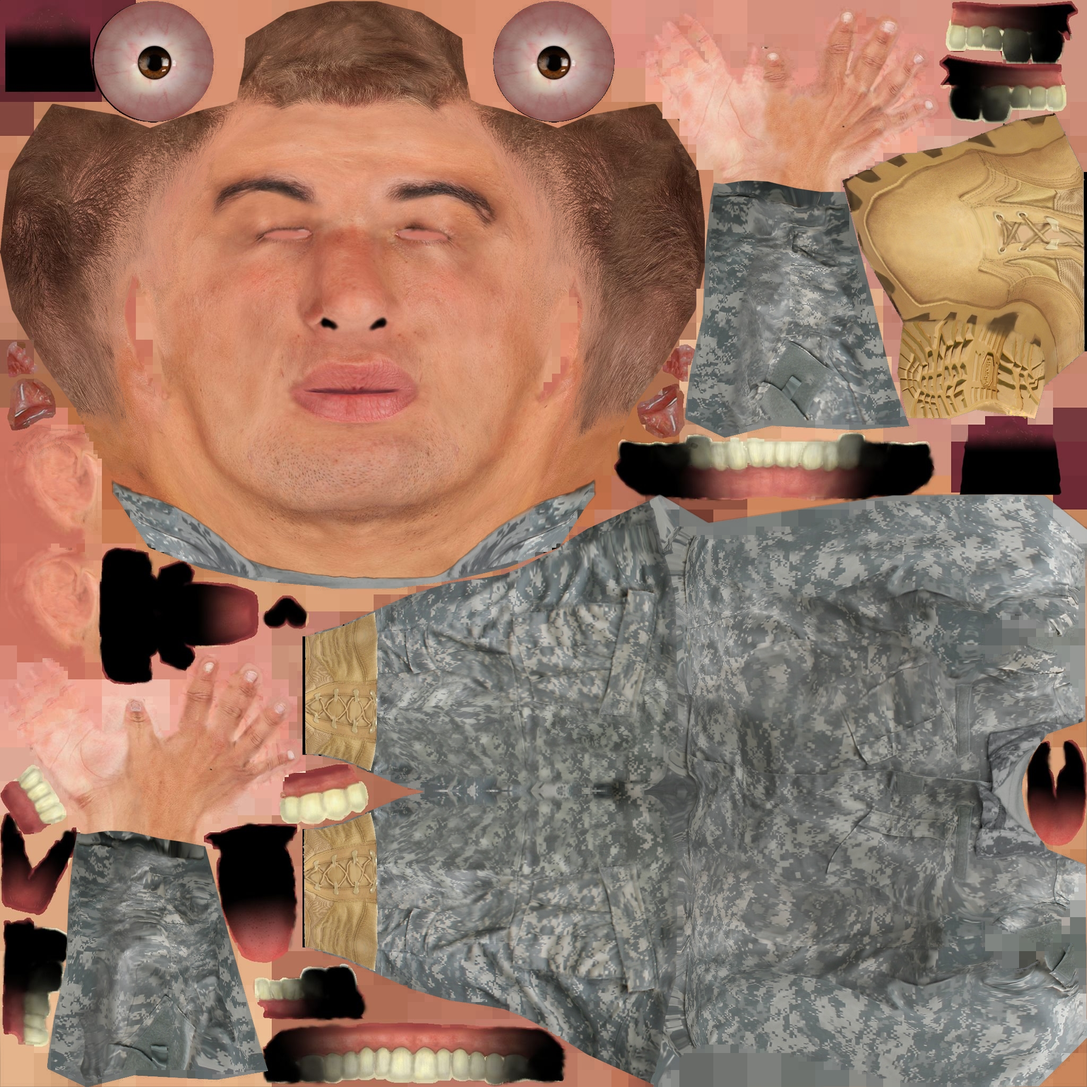
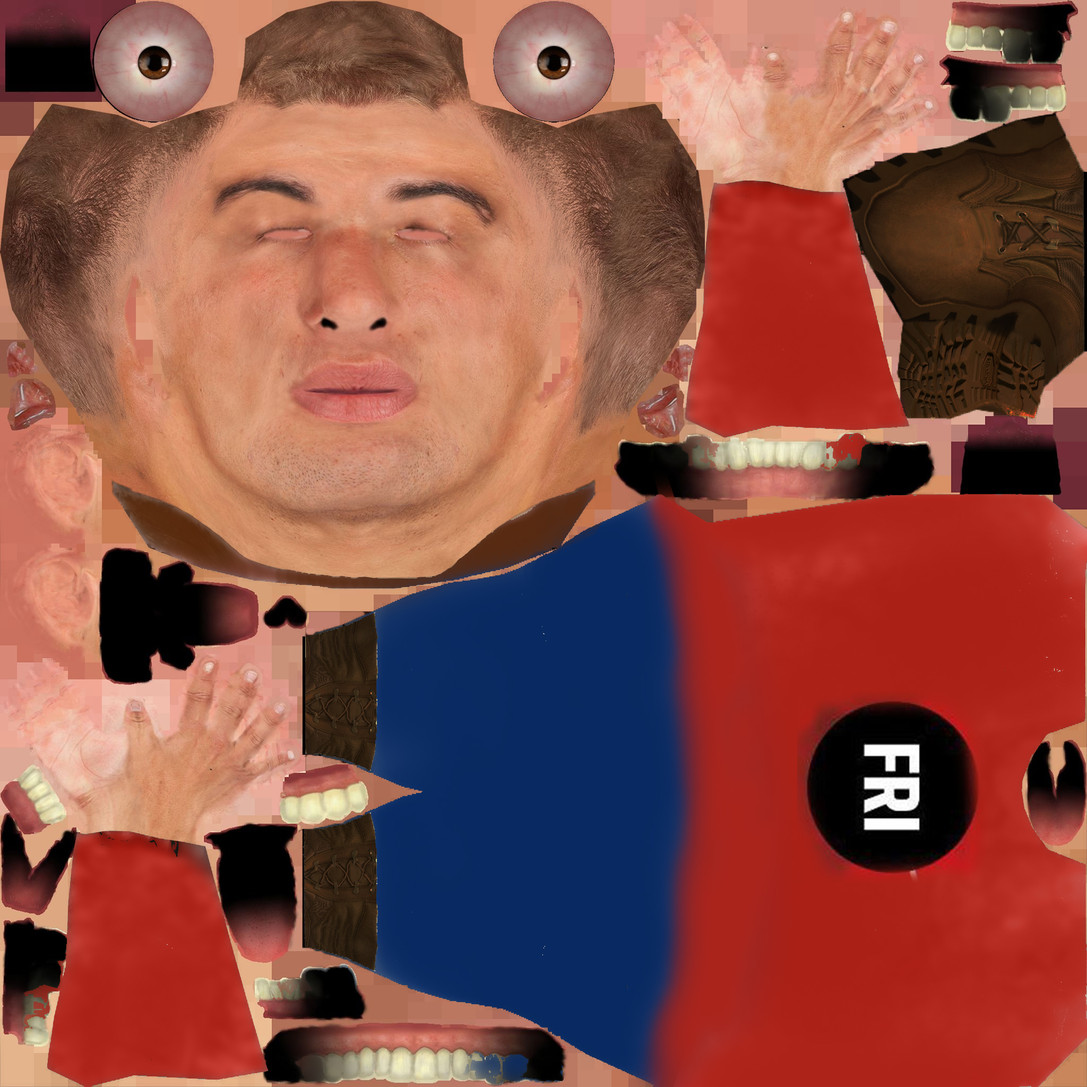
fric, klopce

diff --git a/scripts/world_map.js b/scripts/world_map.js
@@ -1,159 +1,159 @@
 var map = [// 1  2  3  4  5  6  7  8  9
-          [1, 1, 1, 1, 1, 1, 1, 1, 1, 1, 1, 1, 1, 1, 8, 8, 8, 8, 8, 8, 8, 1, 1, 1, 1, 1, 1, 1, 1, 1, 1, 1, 1, 1, 1, 1,], // 0
-          [1, 0, 0, 0, 0, 0, 0, 0, 0, 0, 0, 1, 0, 0, 0, 0, 0, 0, 0, 0, 0, 0, 0, 1, 0, 0, 0, 0, 0, 0, 0, 0, 0, 0, 0, 1,], // 1
-          [7, 0, 0, 0, 0, 0, 0, 0, 0, 0, 0, 1, 0, 0, 0, 0, 0, 0, 0, 0, 0, 0, 0, 1, 0, 0, 0, 0, 0, 0, 0, 0, 0, 0, 0, 7,], // 2
-          [7, 0, 0, 0, 0, 0, 0, 0, 0, 0, 0, 1, 0, 0, 0, 0, 0, 0, 0, 0, 0, 0, 0, 1, 0, 0, 0, 0, 0, 0, 0, 0, 0, 0, 0, 7,], // 3
-          [7, 0, 0, 0, 0, 0, 0, 0, 0, 0, 0, 1, 0, 0, 0, 0, 0, 0, 0, 0, 0, 0, 0, 1, 0, 0, 0, 0, 0, 0, 0, 0, 0, 0, 0, 7,], // 4
-          [7, 0, 0, 0, 0, 0, 0, 0, 0, 0, 0, 1, 0, 0, 0, 0, 0, 0, 0, 0, 0, 0, 0, 1, 0, 0, 0, 0, 0, 0, 0, 0, 0, 0, 0, 7,], // 5
-          [7, 0, 0, 0, 0, 0, 0, 0, 0, 0, 0, 1, 0, 0, 0, 0, 0, 0, 0, 0, 0, 0, 0, 1, 0, 0, 0, 0, 0, 0, 0, 0, 0, 0, 0, 7,], // 6
-          [7, 0, 0, 0, 0, 0, 0, 0, 0, 0, 0, 1, 0, 0, 0, 0, 0, 0, 0, 0, 0, 0, 0, 1, 0, 0, 0, 0, 0, 0, 0, 0, 0, 0, 0, 7,], // 3
-          [7, 0, 0, 0, 0, 0, 0, 0, 0, 0, 0, 5, 0, 0, 0, 0, 0, 0, 0, 0, 0, 0, 0, 5, 0, 0, 0, 0, 0, 0, 0, 0, 0, 0, 0, 7,], // 4
-          [7, 0, 0, 0, 0, 0, 0, 0, 0, 0, 0, 5, 0, 0, 0, 0, 0, 0, 0, 0, 0, 0, 0, 5, 0, 0, 0, 0, 0, 0, 0, 0, 0, 0, 0, 7,], // 5
-          [7, 0, 0, 0, 0, 0, 0, 0, 0, 0, 0, 1, 0, 0, 0, 0, 0, 0, 0, 0, 0, 0, 0, 1, 0, 0, 0, 0, 0, 0, 0, 0, 0, 0, 0, 7,], // 6
-          [7, 0, 0, 0, 0, 0, 0, 0, 0, 0, 0, 1, 0, 0, 0, 0, 0, 0, 0, 0, 0, 0, 0, 1, 0, 0, 0, 0, 0, 0, 0, 0, 0, 0, 0, 7,], // 7
-          [1, 0, 0, 0, 0, 0, 0, 0, 0, 0, 0, 1, 0, 0, 0, 0, 0, 0, 0, 0, 0, 0, 0, 1, 0, 0, 0, 0, 0, 0, 0, 0, 0, 0, 0, 1,], // 8
-          [1, 1, 1, 1, 1, 1, 1, 1, 1, 1, 1, 1, 0, 0, 0, 0, 0, 0, 0, 0, 0, 0, 0, 1, 1, 1, 1, 1, 1, 1, 1, 1, 1, 1, 1, 1,], // 9
-          [1, 0, 0, 0, 0, 0, 0, 0, 0, 0, 1, 0, 0, 0, 0, 0, 0, 0, 0, 0, 0, 0, 0, 1, 0, 0, 0, 0, 0, 0, 0, 0, 0, 0, 0, 1,], // 1
-          [7, 0, 0, 0, 0, 0, 0, 0, 0, 0, 1, 0, 0, 0, 0, 0, 0, 0, 0, 0, 0, 0, 0, 1, 0, 0, 0, 0, 0, 0, 0, 0, 0, 0, 0, 7,], // 2
-          [7, 0, 0, 0, 0, 0, 0, 0, 0, 0, 1, 0, 0, 0, 0, 0, 0, 0, 0, 0, 0, 0, 0, 1, 0, 0, 0, 0, 0, 0, 0, 0, 0, 0, 0, 7,], // 3
-          [7, 0, 0, 0, 0, 0, 0, 0, 0, 0, 1, 0, 0, 0, 0, 0, 0, 0, 0, 0, 0, 0, 0, 1, 0, 0, 0, 0, 0, 0, 0, 0, 0, 0, 0, 7,], // 4
-          [7, 0, 0, 0, 0, 0, 0, 0, 0, 0, 1, 0, 0, 0, 0, 0, 0, 0, 0, 0, 0, 0, 0, 1, 0, 0, 0, 0, 0, 0, 0, 0, 0, 0, 0, 7,], // 5
-          [7, 0, 0, 0, 0, 0, 0, 0, 0, 0, 1, 0, 0, 0, 0, 0, 0, 0, 0, 0, 0, 0, 0, 1, 0, 0, 0, 0, 0, 0, 0, 0, 0, 0, 0, 7,], // 6
-          [7, 0, 0, 0, 0, 0, 0, 0, 0, 0, 1, 0, 0, 0, 0, 0, 0, 0, 0, 0, 0, 0, 0, 1, 0, 0, 0, 0, 0, 0, 0, 0, 0, 0, 0, 7,], // 3
-          [7, 0, 0, 0, 0, 0, 0, 0, 0, 0, 5, 0, 0, 0, 0, 0, 0, 0, 0, 0, 0, 0, 0, 5, 0, 0, 0, 0, 0, 0, 0, 0, 0, 0, 0, 7,], // 4
-          [7, 0, 0, 0, 0, 0, 0, 0, 0, 0, 5, 0, 0, 0, 0, 0, 0, 0, 0, 0, 0, 0, 0, 5, 0, 0, 0, 0, 0, 0, 0, 0, 0, 0, 0, 7,], // 5
-          [7, 0, 0, 0, 0, 0, 0, 0, 0, 0, 1, 0, 0, 0, 0, 0, 0, 0, 0, 0, 0, 0, 0, 1, 0, 0, 0, 0, 0, 0, 0, 0, 0, 0, 0, 7,], // 6
-          [7, 0, 0, 0, 0, 0, 0, 0, 0, 0, 1, 0, 0, 0, 0, 0, 0, 0, 0, 0, 0, 0, 0, 1, 0, 0, 0, 0, 0, 0, 0, 0, 0, 0, 0, 7,], // 7
-          [1, 0, 0, 0, 0, 0, 0, 0, 0, 0, 1, 0, 0, 0, 0, 0, 0, 0, 0, 0, 0, 0, 0, 1, 0, 0, 0, 0, 0, 0, 0, 0, 0, 0, 0, 1,], // 8
-          [1, 1, 1, 1, 1, 1, 1, 1, 1, 1, 1, 1, 0, 0, 0, 0, 0, 0, 0, 0, 0, 0, 0, 1, 1, 1, 1, 1, 1, 1, 1, 1, 1, 1, 1, 1,],
-          [1, 0, 0, 0, 0, 0, 0, 0, 0, 0, 0, 1, 0, 0, 0, 0, 0, 0, 0, 0, 0, 0, 0, 1, 0, 0, 0, 0, 0, 0, 0, 0, 0, 0, 0, 1,], // 1
-          [7, 0, 0, 0, 0, 0, 0, 0, 0, 0, 0, 1, 0, 0, 0, 0, 0, 0, 0, 0, 0, 0, 0, 1, 0, 0, 0, 0, 0, 0, 0, 0, 0, 0, 0, 7,], // 2
-          [7, 0, 0, 0, 0, 0, 0, 0, 0, 0, 0, 1, 0, 0, 0, 0, 0, 0, 0, 0, 0, 0, 0, 1, 0, 0, 0, 0, 0, 0, 0, 0, 0, 0, 0, 7,], // 3
-          [7, 0, 0, 0, 0, 0, 0, 0, 0, 0, 0, 1, 0, 0, 0, 0, 0, 0, 0, 0, 0, 0, 0, 1, 0, 0, 0, 0, 0, 0, 0, 0, 0, 0, 0, 7,], // 4
-          [7, 0, 0, 0, 0, 0, 0, 0, 0, 0, 0, 1, 0, 0, 0, 0, 0, 0, 0, 0, 0, 0, 0, 1, 0, 0, 0, 0, 0, 0, 0, 0, 0, 0, 0, 7,], // 5
-          [7, 0, 0, 0, 0, 0, 0, 0, 0, 0, 0, 1, 0, 0, 0, 0, 0, 0, 0, 0, 0, 0, 0, 1, 0, 0, 0, 0, 0, 0, 0, 0, 0, 0, 0, 7,], // 6
-          [7, 0, 0, 0, 0, 0, 0, 0, 0, 0, 0, 1, 0, 0, 0, 0, 0, 0, 0, 0, 0, 0, 0, 1, 0, 0, 0, 0, 0, 0, 0, 0, 0, 0, 0, 7,], // 3
-          [7, 0, 0, 0, 0, 0, 0, 0, 0, 0, 0, 5, 0, 0, 0, 0, 0, 0, 0, 0, 0, 0, 0, 5, 0, 0, 0, 0, 0, 0, 0, 0, 0, 0, 0, 7,], // 4
-          [7, 0, 0, 0, 0, 0, 0, 0, 0, 0, 0, 5, 0, 0, 0, 0, 0, 0, 0, 0, 0, 0, 0, 5, 0, 0, 0, 0, 0, 0, 0, 0, 0, 0, 0, 7,], // 5
-          [7, 0, 0, 0, 0, 0, 0, 0, 0, 0, 0, 1, 0, 0, 0, 0, 0, 0, 0, 0, 0, 0, 0, 1, 0, 0, 0, 0, 0, 0, 0, 0, 0, 0, 0, 7,], // 6
-          [7, 0, 0, 0, 0, 0, 0, 0, 0, 0, 0, 1, 0, 0, 0, 0, 0, 0, 0, 0, 0, 0, 0, 1, 0, 0, 0, 0, 0, 0, 0, 0, 0, 0, 0, 7,], // 7
-          [7, 0, 0, 0, 0, 0, 0, 0, 0, 0, 0, 1, 0, 0, 0, 0, 0, 0, 0, 0, 0, 0, 0, 1, 0, 0, 0, 0, 0, 0, 0, 0, 0, 0, 0, 1,], // 8
-          [7, 0, 0, 0, 0, 0, 0, 0, 0, 0, 0, 1, 0, 0, 0, 0, 0, 0, 0, 0, 0, 0, 0, 1, 1, 1, 1, 1, 1, 1, 1, 1, 1, 1, 1, 1,],
-          [7, 0, 0, 0, 0, 0, 0, 0, 0, 0, 0, 1, 0, 0, 0, 0, 0, 0, 0, 0, 0, 0, 0, 1, 0, 0, 0, 0, 0, 0, 0, 0, 0, 0, 0, 1,], // 1
-          [7, 0, 0, 0, 0, 0, 0, 0, 0, 0, 0, 1, 0, 0, 0, 0, 0, 0, 0, 0, 0, 0, 0, 1, 0, 0, 0, 0, 0, 0, 0, 0, 0, 0, 0, 7,], // 2
-          [7, 0, 0, 0, 0, 0, 0, 0, 0, 0, 0, 1, 0, 0, 0, 0, 0, 0, 0, 0, 0, 0, 0, 1, 0, 0, 0, 0, 0, 0, 0, 0, 0, 0, 0, 7,], // 3
-          [7, 0, 0, 0, 0, 0, 0, 0, 0, 0, 0, 1, 0, 0, 0, 0, 0, 0, 0, 0, 0, 0, 0, 1, 0, 0, 0, 0, 0, 0, 0, 0, 0, 0, 0, 7,], // 4
-          [7, 0, 0, 0, 0, 0, 0, 0, 0, 0, 0, 1, 0, 0, 0, 0, 0, 0, 0, 0, 0, 0, 0, 1, 0, 0, 0, 0, 0, 0, 0, 0, 0, 0, 0, 7,], // 5
-          [7, 0, 0, 0, 0, 0, 0, 0, 0, 0, 0, 1, 0, 0, 0, 0, 0, 0, 0, 0, 0, 0, 0, 1, 0, 0, 0, 0, 0, 0, 0, 0, 0, 0, 0, 7,], // 6
-          [7, 0, 0, 0, 0, 0, 0, 0, 0, 0, 0, 1, 0, 0, 0, 0, 0, 0, 0, 0, 0, 0, 0, 1, 0, 0, 0, 0, 0, 0, 0, 0, 0, 0, 0, 7,], // 3
-          [7, 0, 0, 0, 0, 0, 0, 0, 0, 0, 0, 5, 0, 0, 0, 0, 0, 0, 0, 0, 0, 0, 0, 5, 0, 0, 0, 0, 0, 0, 0, 0, 0, 0, 0, 7,], // 4
-          [7, 0, 0, 0, 0, 0, 0, 0, 0, 0, 0, 5, 0, 0, 0, 0, 0, 0, 0, 0, 0, 0, 0, 5, 0, 0, 0, 0, 0, 0, 0, 0, 0, 0, 0, 7,], // 5
-          [7, 0, 0, 0, 0, 0, 0, 0, 0, 0, 0, 1, 0, 0, 0, 0, 0, 0, 0, 0, 0, 0, 0, 1, 0, 0, 0, 0, 0, 0, 0, 0, 0, 0, 0, 7,], // 6
-          [7, 0, 0, 0, 0, 0, 0, 0, 0, 0, 0, 1, 0, 0, 0, 0, 0, 0, 0, 0, 0, 0, 0, 1, 0, 0, 0, 0, 0, 0, 0, 0, 0, 0, 0, 7,], // 7
-          [1, 0, 0, 0, 0, 0, 0, 0, 0, 0, 0, 1, 0, 0, 0, 0, 0, 0, 0, 0, 0, 0, 0, 1, 0, 0, 0, 0, 0, 0, 0, 0, 0, 0, 0, 1,], // 8
-          [1, 1, 1, 1, 1, 1, 1, 1, 1, 1, 1, 1, 0, 0, 0, 0, 0, 0, 0, 0, 0, 0, 0, 1, 1, 1, 1, 1, 1, 1, 1, 1, 1, 1, 1, 1,],
-          [1, 0, 0, 0, 0, 0, 0, 0, 0, 0, 0, 0, 0, 0, 0, 0, 0, 0, 0, 0, 0, 0, 0, 1, 0, 0, 0, 0, 0, 0, 0, 0, 0, 0, 0, 1,], // 1
-          [1, 0, 0, 0, 0, 0, 0, 0, 0, 0, 0, 0, 0, 0, 0, 0, 0, 0, 0, 0, 0, 0, 0, 1, 0, 0, 0, 0, 0, 0, 0, 0, 0, 0, 0, 7,], // 2
-          [1, 0, 0, 0, 0, 0, 0, 0, 0, 0, 0, 0, 0, 0, 0, 0, 0, 0, 0, 0, 0, 0, 0, 1, 0, 0, 0, 0, 0, 0, 0, 0, 0, 0, 0, 7,], // 3
-          [1, 0, 0, 0, 0, 0, 0, 0, 0, 0, 0, 0, 0, 0, 0, 0, 0, 0, 0, 0, 0, 0, 0, 1, 0, 0, 0, 0, 0, 0, 0, 0, 0, 0, 0, 7,], // 4
-          [1, 0, 0, 0, 0, 0, 0, 0, 0, 0, 0, 0, 0, 0, 0, 0, 0, 0, 0, 0, 0, 0, 0, 1, 0, 0, 0, 0, 0, 0, 0, 0, 0, 0, 0, 7,], // 3
-          [1, 0, 0, 0, 0, 0, 0, 0, 0, 0, 0, 0, 0, 0, 0, 0, 0, 0, 0, 0, 0, 0, 0, 1, 0, 0, 0, 0, 0, 0, 0, 0, 0, 0, 0, 7,], // 4
-          [1, 0, 0, 0, 0, 6, 0, 0, 0, 0, 0, 0, 0, 0, 0, 0, 0, 0, 0, 0, 0, 0, 0, 1, 0, 0, 0, 0, 0, 0, 0, 0, 0, 0, 0, 7,], // 5
-          [1, 0, 0, 0, 0, 0, 0, 0, 0, 0, 0, 0, 0, 0, 0, 0, 0, 0, 0, 0, 0, 0, 0, 5, 0, 0, 0, 0, 0, 0, 0, 0, 0, 0, 0, 7,], // 6
-          [4, 0, 0, 0, 0, 0, 0, 0, 0, 0, 0, 0, 0, 0, 0, 0, 0, 0, 0, 0, 0, 0, 0, 5, 0, 0, 0, 0, 0, 0, 0, 0, 0, 0, 0, 7,], // 5
-          [4, 0, 0, 0, 0, 0, 0, 0, 0, 0, 0, 0, 0, 0, 0, 0, 0, 0, 0, 0, 0, 0, 0, 1, 0, 0, 0, 0, 0, 0, 0, 0, 0, 0, 0, 7,], // 6
-          [4, 0, 0, 0, 0, 0, 0, 0, 0, 0, 0, 0, 0, 0, 0, 0, 0, 0, 0, 0, 0, 0, 0, 1, 0, 0, 0, 0, 0, 0, 0, 0, 0, 0, 0, 7,], // 7
-          [4, 0, 0, 0, 0, 0, 0, 0, 0, 0, 0, 0, 0, 0, 0, 0, 0, 0, 0, 0, 0, 0, 0, 1, 0, 0, 0, 0, 0, 0, 0, 0, 0, 0, 0, 1,], // 8
-          [4, 0, 0, 0, 0, 0, 0, 0, 0, 0, 0, 0, 0, 0, 0, 0, 0, 0, 0, 0, 0, 0, 0, 1, 1, 1, 1, 1, 1, 1, 1, 1, 1, 1, 1, 1,],
-          [4, 0, 0, 0, 0, 0, 0, 0, 0, 0, 0, 0, 0, 0, 0, 0, 0, 0, 0, 0, 0, 0, 0, 1, 0, 0, 0, 0, 0, 0, 0, 0, 0, 0, 0, 1,], // 1
-          [4, 0, 0, 0, 0, 0, 0, 0, 0, 0, 0, 0, 0, 0, 0, 0, 0, 0, 0, 0, 0, 0, 0, 1, 0, 0, 0, 0, 0, 0, 0, 0, 0, 0, 0, 7,], // 2
-          [4, 0, 0, 0, 0, 0, 0, 0, 0, 0, 0, 0, 0, 0, 0, 0, 0, 0, 0, 0, 0, 0, 0, 1, 0, 0, 0, 0, 0, 0, 0, 0, 0, 0, 0, 7,], // 3
-          [4, 0, 0, 0, 0, 0, 0, 0, 0, 0, 0, 0, 0, 0, 0, 0, 0, 0, 0, 0, 0, 0, 0, 1, 0, 0, 0, 0, 0, 0, 0, 0, 0, 0, 0, 7,], // 4
-          [4, 0, 0, 0, 0, 0, 0, 0, 0, 0, 0, 0, 0, 0, 0, 0, 0, 0, 0, 0, 0, 0, 0, 1, 0, 0, 0, 0, 0, 0, 0, 0, 0, 0, 0, 7,], // 3
-          [4, 0, 0, 0, 0, 0, 0, 0, 0, 9, 0, 9, 0, 0, 0, 0, 0, 0, 0, 0, 0, 0, 0, 1, 0, 0, 0, 0, 0, 0, 0, 0, 0, 0, 0, 7,], // 4
-          [4, 0, 0, 0, 0, 0, 0, 0, 0, 0, 9, 0, 0, 0, 0, 0, 0, 0, 0, 0, 0, 0, 0, 1, 0, 0, 0, 0, 0, 0, 0, 0, 0, 0, 0, 7,], // 5
-          [4, 0, 0, 0, 0, 0, 0, 0, 0, 0, 0, 0, 0, 0, 0, 0, 0, 0, 0, 0, 0, 0, 0, 5, 0, 0, 0, 0, 0, 0, 0, 0, 0, 0, 0, 7,], // 6
-          [1, 0, 0, 0, 0, 0, 0, 0, 0, 0, 0, 0, 0, 0, 0, 0, 0, 0, 0, 0, 0, 0, 0, 5, 0, 0, 0, 0, 0, 0, 0, 0, 0, 0, 0, 7,], // 5
-          [1, 0, 0, 0, 0, 0, 0, 0, 0, 0, 0, 0, 0, 0, 0, 0, 0, 0, 0, 0, 0, 0, 0, 1, 0, 0, 0, 0, 0, 0, 0, 0, 0, 0, 0, 7,], // 6
-          [1, 0, 0, 0, 0, 0, 0, 0, 0, 0, 0, 0, 0, 0, 0, 0, 0, 0, 0, 0, 0, 0, 0, 1, 0, 0, 0, 0, 0, 0, 0, 0, 0, 0, 0, 7,], // 7
-          [1, 0, 0, 0, 0, 0, 0, 0, 0, 0, 0, 0, 0, 0, 0, 0, 0, 0, 0, 0, 0, 0, 0, 1, 0, 0, 0, 0, 0, 0, 0, 0, 0, 0, 0, 1,], // 8
-          [1, 1, 1, 1, 1, 1, 1, 1, 1, 1, 1, 1, 0, 0, 0, 0, 0, 0, 0, 0, 0, 0, 0, 1, 1, 1, 1, 1, 1, 1, 1, 1, 1, 1, 1, 1,],
-          [1, 0, 0, 0, 0, 0, 0, 0, 0, 0, 0, 1, 0, 0, 0, 0, 0, 0, 0, 0, 0, 0, 0, 1, 0, 0, 0, 0, 0, 0, 0, 0, 0, 0, 0, 1,], // 1
-          [7, 0, 0, 0, 0, 0, 0, 0, 0, 0, 0, 1, 0, 0, 0, 0, 0, 0, 0, 0, 0, 0, 0, 1, 0, 0, 0, 0, 0, 0, 0, 0, 0, 0, 0, 7,], // 2
-          [7, 0, 0, 0, 0, 0, 0, 0, 0, 0, 0, 1, 0, 0, 0, 0, 0, 0, 0, 0, 0, 0, 0, 1, 0, 0, 0, 0, 0, 0, 0, 0, 0, 0, 0, 7,], // 3
-          [7, 0, 0, 0, 0, 0, 0, 0, 0, 0, 0, 1, 0, 0, 0, 0, 0, 0, 0, 0, 0, 0, 0, 1, 0, 0, 0, 0, 0, 0, 0, 0, 0, 0, 0, 7,], // 4
-          [7, 0, 0, 0, 0, 0, 0, 0, 0, 0, 0, 1, 0, 0, 0, 0, 0, 0, 0, 0, 0, 0, 0, 1, 0, 0, 0, 0, 0, 0, 0, 0, 0, 0, 0, 7,], // 5
-          [7, 0, 0, 0, 0, 0, 0, 0, 0, 0, 0, 1, 0, 0, 0, 0, 0, 0, 0, 0, 0, 0, 0, 1, 0, 0, 0, 0, 0, 0, 0, 0, 0, 0, 0, 7,], // 6
-          [7, 0, 0, 0, 0, 0, 0, 0, 0, 0, 0, 1, 0, 0, 0, 0, 0, 0, 0, 0, 0, 0, 0, 1, 0, 0, 0, 0, 0, 0, 0, 0, 0, 0, 0, 7,], // 3
-          [7, 0, 0, 0, 0, 0, 0, 0, 0, 0, 0, 5, 0, 0, 0, 0, 0, 0, 0, 0, 0, 0, 0, 5, 0, 0, 0, 0, 0, 0, 0, 0, 0, 0, 0, 7,], // 4
-          [7, 0, 0, 0, 0, 0, 0, 0, 0, 0, 0, 5, 0, 0, 0, 0, 0, 0, 0, 0, 0, 0, 0, 5, 0, 0, 0, 0, 0, 0, 0, 0, 0, 0, 0, 7,], // 5
-          [7, 0, 0, 0, 0, 0, 0, 0, 0, 0, 0, 1, 0, 0, 0, 0, 0, 0, 0, 0, 0, 0, 0, 1, 0, 0, 0, 0, 0, 0, 0, 0, 0, 0, 0, 7,], // 6
-          [7, 0, 0, 0, 0, 0, 0, 0, 0, 0, 0, 1, 0, 0, 0, 0, 0, 0, 0, 0, 0, 0, 0, 1, 0, 0, 0, 0, 0, 0, 0, 0, 0, 0, 0, 7,], // 7
-          [1, 0, 0, 0, 0, 0, 0, 0, 0, 0, 0, 1, 0, 0, 0, 0, 0, 0, 0, 0, 0, 0, 0, 1, 0, 0, 0, 0, 0, 0, 0, 0, 0, 0, 0, 1,], // 8
-          [1, 1, 1, 1, 1, 1, 1, 1, 1, 1, 1, 1, 0, 0, 0, 0, 0, 0, 0, 0, 0, 0, 0, 1, 1, 1, 1, 1, 1, 1, 1, 1, 1, 1, 1, 1,],
-          [1, 0, 0, 0, 0, 0, 0, 0, 0, 0, 0, 1, 0, 0, 0, 0, 0, 0, 0, 0, 0, 0, 0, 1, 0, 0, 0, 0, 0, 0, 0, 0, 0, 0, 0, 1,], // 1
-          [7, 0, 0, 0, 0, 0, 0, 0, 0, 0, 0, 1, 0, 0, 0, 0, 0, 0, 0, 0, 0, 0, 0, 1, 0, 0, 0, 0, 0, 0, 0, 0, 0, 0, 0, 7,], // 2
-          [7, 0, 0, 0, 0, 0, 0, 0, 0, 0, 0, 1, 0, 0, 0, 0, 0, 0, 0, 0, 0, 0, 0, 1, 0, 0, 0, 0, 0, 0, 0, 0, 0, 0, 0, 7,], // 3
-          [7, 0, 0, 0, 0, 0, 0, 0, 0, 0, 0, 1, 0, 0, 0, 0, 0, 0, 0, 0, 0, 0, 0, 1, 0, 0, 0, 0, 0, 0, 0, 0, 0, 0, 0, 7,], // 4
-          [7, 0, 0, 0, 0, 0, 0, 0, 0, 0, 0, 1, 0, 0, 0, 0, 0, 0, 0, 0, 0, 0, 0, 1, 0, 0, 0, 0, 0, 0, 0, 0, 0, 0, 0, 7,], // 5
-          [7, 0, 0, 0, 0, 0, 0, 0, 0, 0, 0, 1, 0, 0, 0, 0, 0, 0, 0, 0, 0, 0, 0, 1, 0, 0, 0, 0, 0, 0, 0, 0, 0, 0, 0, 7,], // 6
-          [7, 0, 0, 0, 0, 0, 0, 0, 0, 0, 0, 1, 0, 0, 0, 0, 0, 0, 0, 0, 0, 0, 0, 1, 0, 0, 0, 0, 0, 0, 0, 0, 0, 0, 0, 7,], // 3
-          [7, 0, 0, 0, 0, 0, 0, 0, 0, 0, 0, 5, 0, 0, 0, 0, 0, 0, 0, 0, 0, 0, 0, 5, 0, 0, 0, 0, 0, 0, 0, 0, 0, 0, 0, 7,], // 4
-          [7, 0, 0, 0, 0, 0, 0, 0, 0, 0, 0, 5, 0, 0, 0, 0, 0, 0, 0, 0, 0, 0, 0, 5, 0, 0, 0, 0, 0, 0, 0, 0, 0, 0, 0, 7,], // 5
-          [7, 0, 0, 0, 0, 0, 0, 0, 0, 0, 0, 1, 0, 0, 0, 0, 0, 0, 0, 0, 0, 0, 0, 1, 0, 0, 0, 0, 0, 0, 0, 0, 0, 0, 0, 7,], // 6
-          [7, 0, 0, 0, 0, 0, 0, 0, 0, 0, 0, 1, 0, 0, 0, 0, 0, 0, 0, 0, 0, 0, 0, 1, 0, 0, 0, 0, 0, 0, 0, 0, 0, 0, 0, 7,], // 7
-          [1, 0, 0, 0, 0, 0, 0, 0, 0, 0, 0, 1, 0, 0, 0, 0, 0, 0, 0, 0, 0, 0, 0, 1, 0, 0, 0, 0, 0, 0, 0, 0, 0, 0, 0, 1,], // 8
-          [1, 1, 1, 1, 1, 1, 1, 1, 1, 1, 1, 1, 0, 0, 0, 0, 0, 0, 0, 0, 0, 0, 0, 1, 1, 1, 1, 1, 1, 1, 1, 1, 1, 1, 1, 1,],
-          [1, 0, 0, 0, 0, 0, 0, 0, 0, 0, 0, 1, 0, 0, 0, 0, 0, 0, 0, 0, 0, 0, 0, 1, 0, 0, 0, 0, 0, 0, 0, 0, 0, 0, 0, 1,], // 1
-          [7, 0, 0, 0, 0, 0, 0, 0, 0, 0, 0, 1, 0, 0, 0, 0, 0, 0, 0, 0, 0, 0, 0, 1, 0, 0, 0, 0, 0, 0, 0, 0, 0, 0, 0, 7,], // 2
-          [7, 0, 0, 0, 0, 0, 0, 0, 0, 0, 0, 1, 0, 0, 0, 0, 0, 0, 0, 0, 0, 0, 0, 1, 0, 0, 0, 0, 0, 0, 0, 0, 0, 0, 0, 7,], // 3
-          [7, 0, 0, 0, 0, 0, 0, 0, 0, 0, 0, 1, 0, 0, 0, 0, 0, 0, 0, 0, 0, 0, 0, 1, 0, 0, 0, 0, 0, 0, 0, 0, 0, 0, 0, 7,], // 4
-          [7, 0, 0, 0, 0, 0, 0, 0, 0, 0, 0, 1, 0, 0, 0, 0, 0, 0, 0, 0, 0, 0, 0, 1, 0, 0, 0, 0, 0, 0, 0, 0, 0, 0, 0, 7,], // 5
-          [7, 0, 0, 0, 0, 0, 0, 0, 0, 0, 0, 1, 0, 0, 0, 0, 0, 0, 0, 0, 0, 0, 0, 1, 0, 0, 0, 0, 0, 0, 0, 0, 0, 0, 0, 7,], // 6
-          [7, 0, 0, 0, 0, 0, 0, 0, 0, 0, 0, 1, 0, 0, 0, 0, 0, 0, 0, 0, 0, 0, 0, 1, 0, 0, 0, 0, 0, 0, 0, 0, 0, 0, 0, 7,], // 3
-          [7, 0, 0, 0, 0, 0, 0, 0, 0, 0, 0, 5, 0, 0, 0, 0, 0, 0, 0, 0, 0, 0, 0, 5, 0, 0, 0, 0, 0, 0, 0, 0, 0, 0, 0, 7,], // 4
-          [7, 0, 0, 0, 0, 0, 0, 0, 0, 0, 0, 5, 0, 0, 0, 0, 0, 0, 0, 0, 0, 0, 0, 5, 0, 0, 0, 0, 0, 0, 0, 0, 0, 0, 0, 7,], // 5
-          [7, 0, 0, 0, 0, 0, 0, 0, 0, 0, 0, 1, 0, 0, 0, 0, 0, 0, 0, 0, 0, 0, 0, 1, 0, 0, 0, 0, 0, 0, 0, 0, 0, 0, 0, 7,], // 6
-          [7, 0, 0, 0, 0, 0, 0, 0, 0, 0, 0, 1, 0, 0, 0, 0, 0, 0, 0, 0, 0, 0, 0, 1, 0, 0, 0, 0, 0, 0, 0, 0, 0, 0, 0, 7,], // 7
-          [1, 0, 0, 0, 0, 0, 0, 0, 0, 0, 0, 1, 0, 0, 0, 0, 0, 0, 0, 0, 0, 0, 0, 1, 0, 0, 0, 0, 0, 0, 0, 0, 0, 0, 0, 1,], // 8
-          [1, 1, 1, 1, 1, 1, 1, 1, 1, 1, 1, 1, 0, 0, 0, 0, 0, 0, 0, 0, 0, 0, 0, 1, 1, 1, 1, 1, 1, 1, 1, 1, 1, 1, 1, 1,],
-          [1, 0, 0, 0, 0, 0, 0, 0, 0, 0, 0, 1, 0, 0, 0, 0, 0, 0, 0, 0, 0, 0, 0, 1, 0, 0, 0, 0, 0, 0, 0, 0, 0, 0, 0, 1,], // 1
-          [7, 0, 0, 0, 0, 0, 0, 0, 0, 0, 0, 1, 0, 0, 0, 0, 0, 0, 0, 0, 0, 0, 0, 1, 0, 0, 0, 0, 0, 0, 0, 0, 0, 0, 0, 7,], // 2
-          [7, 0, 0, 0, 0, 0, 0, 0, 0, 0, 0, 1, 0, 0, 0, 0, 0, 0, 0, 0, 0, 0, 0, 1, 0, 0, 0, 0, 0, 0, 0, 0, 0, 0, 0, 7,], // 3
-          [7, 0, 0, 0, 0, 0, 0, 0, 0, 0, 0, 1, 0, 0, 0, 0, 0, 0, 0, 0, 0, 0, 0, 1, 0, 0, 0, 0, 0, 0, 0, 0, 0, 0, 0, 7,], // 4
-          [7, 0, 0, 0, 0, 0, 0, 0, 0, 0, 0, 1, 0, 0, 0, 0, 0, 0, 0, 0, 0, 0, 0, 1, 0, 0, 0, 0, 0, 0, 0, 0, 0, 0, 0, 7,], // 5
-          [7, 0, 0, 0, 0, 0, 0, 0, 0, 0, 0, 1, 0, 0, 0, 0, 0, 0, 0, 0, 0, 0, 0, 1, 0, 0, 0, 0, 0, 0, 0, 0, 0, 0, 0, 7,], // 6
-          [7, 0, 0, 0, 0, 0, 0, 0, 0, 0, 0, 1, 0, 0, 0, 0, 0, 0, 0, 0, 0, 0, 0, 1, 0, 0, 0, 0, 0, 0, 0, 0, 0, 0, 0, 7,], // 3
-          [7, 0, 0, 0, 0, 0, 0, 0, 0, 0, 0, 5, 0, 0, 0, 0, 0, 0, 0, 0, 0, 0, 0, 5, 0, 0, 0, 0, 0, 0, 0, 0, 0, 0, 0, 7,], // 4
-          [7, 0, 0, 0, 0, 0, 0, 0, 0, 0, 0, 5, 0, 0, 0, 0, 0, 0, 0, 0, 0, 0, 0, 5, 0, 0, 0, 0, 0, 0, 0, 0, 0, 0, 0, 7,], // 5
-          [7, 0, 0, 0, 0, 0, 0, 0, 0, 0, 0, 1, 0, 0, 0, 0, 0, 0, 0, 0, 0, 0, 0, 1, 0, 0, 0, 0, 0, 0, 0, 0, 0, 0, 0, 7,], // 6
-          [7, 0, 0, 0, 0, 0, 0, 0, 0, 0, 0, 1, 0, 0, 0, 0, 0, 0, 0, 0, 0, 0, 0, 1, 0, 0, 0, 0, 0, 0, 0, 0, 0, 0, 0, 7,], // 7
-          [1, 0, 0, 0, 0, 0, 0, 0, 0, 0, 0, 1, 0, 0, 0, 0, 0, 0, 0, 0, 0, 0, 0, 1, 0, 0, 0, 0, 0, 0, 0, 0, 0, 0, 0, 1,], // 8
-          [1, 1, 1, 1, 1, 1, 1, 1, 1, 1, 1, 1, 0, 0, 0, 0, 0, 0, 0, 0, 0, 0, 0, 1, 1, 1, 1, 1, 1, 1, 1, 1, 1, 1, 1, 1,],
-          [1, 0, 0, 0, 0, 0, 0, 0, 0, 0, 0, 1, 0, 0, 0, 0, 0, 0, 0, 0, 0, 0, 0, 1, 0, 0, 0, 0, 0, 0, 0, 0, 0, 0, 0, 1,], // 1
-          [7, 0, 0, 0, 0, 0, 0, 0, 0, 0, 0, 1, 0, 0, 0, 0, 0, 0, 0, 0, 0, 0, 0, 1, 0, 0, 0, 0, 0, 0, 0, 0, 0, 0, 0, 7,], // 2
-          [7, 0, 0, 0, 0, 0, 0, 0, 0, 0, 0, 1, 0, 0, 0, 0, 0, 0, 0, 0, 0, 0, 0, 1, 0, 0, 0, 0, 0, 0, 0, 0, 0, 0, 0, 7,], // 3
-          [7, 0, 0, 0, 0, 0, 0, 0, 0, 0, 0, 1, 0, 0, 0, 0, 0, 0, 0, 0, 0, 0, 0, 1, 0, 0, 0, 0, 0, 0, 0, 0, 0, 0, 0, 7,], // 4
-          [7, 0, 0, 0, 0, 0, 0, 0, 0, 0, 0, 1, 0, 0, 0, 0, 0, 0, 0, 0, 0, 0, 0, 1, 0, 0, 0, 0, 0, 0, 0, 0, 0, 0, 0, 7,], // 5
-          [7, 0, 0, 0, 0, 0, 0, 0, 0, 0, 0, 1, 0, 0, 0, 0, 0, 0, 0, 0, 0, 0, 0, 1, 0, 0, 0, 0, 0, 0, 0, 0, 0, 0, 0, 7,], // 6
-          [7, 0, 0, 0, 0, 0, 0, 0, 0, 0, 0, 1, 0, 0, 0, 0, 0, 0, 0, 0, 0, 0, 0, 1, 0, 0, 0, 0, 0, 0, 0, 0, 0, 0, 0, 7,], // 3
-          [7, 0, 0, 0, 0, 0, 0, 0, 0, 0, 0, 5, 0, 0, 0, 0, 0, 0, 0, 0, 0, 0, 0, 5, 0, 0, 0, 0, 0, 0, 0, 0, 0, 0, 0, 7,], // 4
-          [7, 0, 0, 0, 0, 0, 0, 0, 0, 0, 0, 5, 0, 0, 0, 0, 0, 0, 0, 0, 0, 0, 0, 5, 0, 0, 0, 0, 0, 0, 0, 0, 0, 0, 0, 7,], // 5
-          [7, 0, 0, 0, 0, 0, 0, 0, 0, 0, 0, 1, 0, 0, 0, 0, 0, 0, 0, 0, 0, 0, 0, 1, 0, 0, 0, 0, 0, 0, 0, 0, 0, 0, 0, 7,], // 6
-          [7, 0, 0, 0, 0, 0, 0, 0, 0, 0, 0, 1, 0, 0, 0, 0, 0, 0, 0, 0, 0, 0, 0, 1, 0, 0, 0, 0, 0, 0, 0, 0, 0, 0, 0, 7,], // 7
-          [1, 0, 0, 0, 0, 0, 0, 0, 0, 0, 0, 1, 0, 0, 0, 0, 0, 0, 0, 0, 0, 0, 0, 1, 0, 0, 0, 0, 0, 0, 0, 0, 0, 0, 0, 1,], // 8
-          [1, 1, 1, 1, 1, 1, 1, 1, 1, 1, 1, 1, 0, 0, 0, 0, 0, 0, 0, 0, 0, 0, 0, 1, 1, 1, 1, 1, 1, 1, 1, 1, 1, 1, 1, 1,],
-          [1, 0, 0, 0, 0, 0, 0, 0, 0, 0, 0, 1, 0, 0, 0, 0, 0, 0, 0, 0, 0, 0, 0, 1, 0, 0, 0, 0, 0, 0, 0, 0, 0, 0, 0, 1,], // 1
-          [7, 0, 0, 0, 0, 0, 0, 0, 0, 0, 0, 1, 0, 0, 0, 0, 0, 0, 0, 0, 0, 0, 0, 1, 0, 0, 0, 0, 0, 0, 0, 0, 0, 0, 0, 7,], // 2
-          [7, 0, 0, 0, 0, 0, 0, 0, 0, 0, 0, 1, 0, 0, 0, 0, 0, 0, 0, 0, 0, 0, 0, 1, 0, 0, 0, 0, 0, 0, 0, 0, 0, 0, 0, 7,], // 3
-          [7, 0, 0, 0, 0, 0, 0, 0, 0, 0, 0, 1, 0, 0, 0, 0, 0, 0, 0, 0, 0, 0, 0, 1, 0, 0, 0, 0, 0, 0, 0, 0, 0, 0, 0, 7,], // 4
-          [7, 0, 0, 0, 0, 0, 0, 0, 0, 0, 0, 1, 0, 0, 0, 0, 0, 0, 0, 0, 0, 0, 0, 1, 0, 0, 0, 0, 0, 0, 0, 0, 0, 0, 0, 7,], // 5
-          [7, 0, 0, 0, 0, 0, 0, 0, 0, 0, 0, 1, 0, 0, 0, 0, 0, 0, 0, 0, 0, 0, 0, 1, 0, 0, 0, 0, 0, 0, 0, 0, 0, 0, 0, 7,], // 6
-          [7, 0, 0, 0, 0, 0, 0, 0, 0, 0, 0, 1, 0, 0, 0, 0, 0, 0, 0, 0, 0, 0, 0, 1, 0, 0, 0, 0, 0, 0, 0, 0, 0, 0, 0, 7,], // 3
-          [7, 0, 0, 0, 0, 0, 0, 0, 0, 0, 0, 5, 0, 0, 0, 0, 0, 0, 0, 0, 0, 0, 0, 5, 0, 0, 0, 0, 0, 0, 0, 0, 0, 0, 0, 7,], // 4
-          [7, 0, 0, 0, 0, 0, 0, 0, 0, 0, 0, 5, 0, 0, 0, 0, 0, 0, 0, 0, 0, 0, 0, 5, 0, 0, 0, 0, 0, 0, 0, 0, 0, 0, 0, 7,], // 5
-          [7, 0, 0, 0, 0, 0, 0, 0, 0, 0, 0, 1, 0, 0, 0, 0, 0, 0, 0, 0, 0, 0, 0, 1, 0, 0, 0, 0, 0, 0, 0, 0, 0, 0, 0, 7,], // 6
-          [7, 0, 0, 0, 0, 0, 0, 0, 0, 0, 0, 1, 0, 0, 0, 0, 0, 0, 0, 0, 0, 0, 0, 1, 0, 0, 0, 0, 0, 0, 0, 0, 0, 0, 0, 7,], // 7
-          [1, 0, 0, 0, 0, 0, 0, 0, 0, 0, 0, 1, 0, 0, 0, 0, 0, 0, 0, 0, 0, 0, 0, 1, 0, 0, 0, 0, 0, 0, 0, 0, 0, 0, 0, 1,], // 8
-          [1, 1, 1, 1, 1, 1, 1, 1, 1, 1, 1, 1, 1, 1, 8, 8, 8, 8, 8, 8, 8, 1, 1, 1, 1, 1, 1, 1, 1, 1, 1, 1, 1, 1, 1, 1,],
+          [1, 1, 1, 1, 1, 1, 1, 1, 1, 1, 1, 1, 1, 1, 8, 8, 8, 8, 8, 1, 1, 1, 1, 1, 1, 1, 1, 1, 1, 1, 1, 1, 1, 1,], // 0
+          [1, 0, 0, 0, 0, 0, 0, 0, 0, 0, 0, 1, 0, 0, 0, 0, 0, 0, 0, 0, 0, 1, 0, 0, 0, 0, 0, 0, 0, 0, 0, 0, 0, 1,], // 1
+          [7, 0, 0, 0, 0, 0, 0, 0, 0, 0, 0, 1, 0, 0, 0, 0, 0, 0, 0, 0, 0, 0, 1, 0, 0, 0, 0, 0, 0, 0, 0, 0, 0, 0, 7,], // 2
+          [7, 0, 0, 0, 0, 0, 0, 0, 0, 0, 0, 1, 10, 0, 0, 0, 0, 0, 0, 0, 10, 1, 0, 0, 0, 0, 0, 0, 0, 0, 0, 0, 0, 7,], // 3
+          [7, 0, 0, 0, 0, 0, 0, 0, 0, 0, 0, 1, 0, 0, 0, 0, 10, 0, 0, 0, 0, 1, 0, 0, 0, 0, 0, 0, 0, 0, 0, 0, 0, 7,], // 4
+          [7, 0, 0, 0, 0, 0, 0, 0, 0, 0, 0, 1, 0, 0, 0, 0, 0, 0, 0, 0, 0, 1, 0, 0, 0, 0, 0, 0, 0, 0, 0, 0, 0, 7,], // 5
+          [7, 0, 0, 0, 0, 0, 0, 0, 0, 0, 0, 1, 10, 0, 0, 0, 0, 0, 0, 0, 10, 1, 0, 0, 0, 0, 0, 0, 0, 0, 0, 0, 0, 7,], // 6
+          [7, 0, 0, 0, 0, 0, 0, 0, 0, 0, 0, 1, 0, 0, 0, 0, 0, 0, 0, 0, 0, 1, 0, 0, 0, 0, 0, 0, 0, 0, 0, 0, 0, 7,], // 3
+          [7, 0, 0, 0, 0, 0, 0, 0, 0, 0, 0, 5, 0, 0, 0, 0, 0, 0, 0, 0, 0, 5, 0, 0, 0, 0, 0, 0, 0, 0, 0, 0, 0, 7,], // 4
+          [7, 0, 0, 0, 0, 0, 0, 0, 0, 0, 0, 5, 0, 0, 0, 0, 10, 0, 0, 0, 0, 5, 0, 0, 0, 0, 0, 0, 0, 0, 0, 0, 0, 7,], // 5
+          [7, 0, 0, 0, 0, 0, 0, 0, 0, 0, 0, 1, 0, 0, 0, 0, 0, 0, 0, 0, 0, 1, 0, 0, 0, 0, 0, 0, 0, 0, 0, 0, 0, 7,], // 6
+          [7, 0, 0, 0, 0, 0, 0, 0, 0, 0, 0, 1, 10, 0, 0, 0, 0, 0, 0, 0, 0, 1, 0, 0, 0, 0, 0, 0, 0, 0, 0, 0, 0, 7,], // 7
+          [1, 0, 0, 0, 0, 0, 0, 0, 0, 0, 0, 1, 0, 0, 0, 0, 0, 0, 0, 0, 10, 1, 0, 0, 0, 0, 0, 0, 0, 0, 0, 0, 0, 1,], // 8
+          [1, 1, 1, 1, 1, 1, 1, 1, 1, 1, 1, 1, 0, 0, 0, 0, 0, 0, 0, 0, 0, 1, 1, 1, 1, 1, 1, 1, 1, 1, 1, 1, 1, 1,], // 9
+          [1, 0, 0, 0, 0, 0, 0, 0, 0, 0, 1, 0, 0, 0, 0, 0, 0, 0, 0, 0, 0, 1, 0, 0, 0, 0, 0, 0, 0, 0, 0, 0, 0, 1,], // 1
+          [7, 0, 0, 0, 0, 0, 0, 0, 0, 0, 1, 10, 0, 0, 0, 0, 0, 0, 0, 0, 10, 1, 0, 0, 0, 0, 0, 0, 0, 0, 0, 0, 0, 7,], // 2
+          [7, 0, 0, 0, 0, 0, 0, 0, 0, 0, 1, 0, 0, 0, 0, 0, 10, 0, 0, 0, 0, 1, 0, 0, 0, 0, 0, 0, 0, 0, 0, 0, 0, 7,], // 3
+          [7, 0, 0, 0, 0, 0, 0, 0, 0, 0, 1, 0, 0, 0, 0, 0, 0, 0, 0, 0, 0, 1, 0, 0, 0, 0, 0, 0, 0, 0, 0, 0, 0, 7,], // 4
+          [7, 0, 0, 0, 0, 0, 0, 0, 0, 0, 1, 10, 0, 0, 0, 0, 0, 0, 0, 0, 10, 1, 0, 0, 0, 0, 0, 0, 0, 0, 0, 0, 0, 7,], // 5
+          [7, 0, 0, 0, 0, 0, 0, 0, 0, 0, 1, 0, 0, 0, 0, 10, 0, 0, 0, 0, 0, 1, 0, 0, 0, 0, 0, 0, 0, 0, 0, 0, 0, 7,], // 6
+          [7, 0, 0, 0, 0, 0, 0, 0, 0, 0, 1, 0, 0, 0, 0, 0, 0, 0, 0, 0, 0, 1, 0, 0, 0, 0, 0, 0, 0, 0, 0, 0, 0, 7,], // 3
+          [7, 0, 0, 0, 0, 0, 0, 0, 0, 0, 5, 0, 0, 0, 0, 0, 0, 0, 0, 0, 0, 5, 0, 0, 0, 0, 0, 0, 0, 0, 0, 0, 0, 7,], // 4
+          [7, 0, 0, 0, 0, 0, 0, 0, 0, 0, 5, 0, 0, 0, 0, 0, 0, 0, 0, 0, 0, 5, 0, 0, 0, 0, 0, 0, 0, 0, 0, 0, 0, 7,], // 5
+          [7, 0, 0, 0, 0, 0, 0, 0, 0, 0, 1, 0, 0, 0, 0, 0, 0, 0, 0, 0, 0, 1, 0, 0, 0, 0, 0, 0, 0, 0, 0, 0, 0, 7,], // 6
+          [7, 0, 0, 0, 0, 0, 0, 0, 0, 0, 1, 0, 0, 0, 0, 0, 0, 0, 0, 0, 0, 1, 0, 0, 0, 0, 0, 0, 0, 0, 0, 0, 0, 7,], // 7
+          [1, 0, 0, 0, 0, 0, 0, 0, 0, 0, 1, 0, 0, 0, 0, 0, 0, 0, 0, 0, 10, 1, 0, 0, 0, 0, 0, 0, 0, 0, 0, 0, 0, 1,], // 8
+          [1, 1, 1, 1, 1, 1, 1, 1, 1, 1, 1, 1, 0, 0, 0, 0, 0, 0, 0, 0, 0, 1, 1, 1, 1, 1, 1, 1, 1, 1, 1, 1, 1, 1,],
+          [1, 0, 0, 0, 0, 0, 0, 0, 0, 0, 0, 1, 0, 0, 0, 0, 0, 0, 0, 0, 0, 1, 0, 0, 0, 0, 0, 0, 0, 0, 0, 0, 0, 1,], // 1
+          [7, 0, 0, 0, 0, 0, 0, 0, 0, 0, 0, 1, 10, 0, 0, 0, 0, 0, 0, 0, 10, 1, 0, 0, 0, 0, 0, 0, 0, 0, 0, 0, 0, 7,], // 2
+          [7, 0, 0, 0, 0, 0, 0, 0, 0, 0, 0, 1, 0, 0, 0, 0, 0, 0, 0, 0, 0, 1, 0, 0, 0, 0, 0, 0, 0, 0, 0, 0, 0, 7,], // 3
+          [7, 0, 0, 0, 0, 0, 0, 0, 0, 0, 0, 1, 0, 0, 0, 0, 0, 0, 0, 0, 0, 1, 0, 0, 0, 0, 0, 0, 0, 0, 0, 0, 0, 7,], // 4
+          [7, 0, 0, 0, 0, 0, 0, 0, 0, 0, 0, 1, 10, 0, 0, 0, 0, 0, 0, 0, 10, 1, 0, 0, 0, 0, 0, 0, 0, 0, 0, 0, 0, 7,], // 5
+          [7, 0, 0, 0, 0, 0, 0, 0, 0, 0, 0, 1, 0, 0, 0, 0, 0, 0, 0, 0, 0, 1, 0, 0, 0, 0, 0, 0, 0, 0, 0, 0, 0, 7,], // 6
+          [7, 0, 0, 0, 0, 0, 0, 0, 0, 0, 0, 1, 0, 0, 0, 0, 0, 0, 0, 0, 0, 1, 0, 0, 0, 0, 0, 0, 0, 0, 0, 0, 0, 7,], // 3
+          [7, 0, 0, 0, 0, 0, 0, 0, 0, 0, 0, 5, 0, 0, 0, 0, 0, 0, 0, 0, 0, 5, 0, 0, 0, 0, 0, 0, 0, 0, 0, 0, 0, 7,], // 4
+          [7, 0, 0, 0, 0, 0, 0, 0, 0, 0, 0, 5, 0, 0, 0, 0, 0, 0, 0, 0, 0, 5, 0, 0, 0, 0, 0, 0, 0, 0, 0, 0, 0, 7,], // 5
+          [7, 0, 0, 0, 0, 0, 0, 0, 0, 0, 0, 1, 0, 0, 0, 0, 0, 0, 0, 0, 0, 1, 0, 0, 0, 0, 0, 0, 0, 0, 0, 0, 0, 7,], // 6
+          [7, 0, 0, 0, 0, 0, 0, 0, 0, 0, 0, 1, 0, 0, 0, 0, 0, 0, 0, 0, 0, 1, 0, 0, 0, 0, 0, 0, 0, 0, 0, 0, 0, 7,], // 7
+          [7, 0, 0, 0, 0, 0, 0, 0, 0, 0, 0, 1, 10, 0, 0, 0, 0, 0, 0, 0, 10, 1, 0, 0, 0, 0, 0, 0, 0, 0, 0, 0, 0, 1,], // 8
+          [7, 0, 0, 0, 0, 0, 0, 0, 0, 0, 0, 1, 0, 0, 0, 0, 0, 0, 0, 0, 0, 1, 1, 1, 1, 1, 1, 1, 1, 1, 1, 1, 1, 1,],
+          [7, 0, 0, 0, 0, 0, 0, 0, 0, 0, 0, 1, 0, 0, 0, 0, 0, 0, 0, 0, 0, 1, 0, 0, 0, 0, 0, 0, 0, 0, 0, 0, 0, 1,], // 1
+          [7, 0, 0, 0, 0, 0, 0, 0, 0, 0, 0, 1, 10, 0, 0, 0, 0, 0, 0, 0, 10, 1, 0, 0, 0, 0, 0, 0, 0, 0, 0, 0, 0, 7,], // 2
+          [7, 0, 0, 0, 0, 0, 0, 0, 0, 0, 0, 1, 0, 0, 0, 0, 0, 0, 0, 0, 0, 1, 0, 0, 0, 0, 0, 0, 0, 0, 0, 0, 0, 7,], // 3
+          [7, 0, 0, 0, 0, 0, 0, 0, 0, 0, 0, 1, 0, 0, 0, 0, 0, 0, 0, 0, 0, 1, 0, 0, 0, 0, 0, 0, 0, 0, 0, 0, 0, 7,], // 4
+          [7, 0, 0, 0, 0, 0, 0, 0, 0, 0, 0, 1, 10, 0, 0, 0, 0, 0, 0, 0, 10, 1, 0, 0, 0, 0, 0, 0, 0, 0, 0, 0, 0, 7,], // 5
+          [7, 0, 0, 0, 0, 0, 0, 0, 0, 0, 0, 1, 0, 0, 0, 0, 0, 0, 0, 0, 0, 1, 0, 0, 0, 0, 0, 0, 0, 0, 0, 0, 0, 7,], // 6
+          [7, 0, 0, 0, 0, 0, 0, 0, 0, 0, 0, 1, 0, 0, 0, 0, 0, 0, 0, 0, 0, 1, 0, 0, 0, 0, 0, 0, 0, 0, 0, 0, 0, 7,], // 3
+          [7, 0, 0, 0, 0, 0, 0, 0, 0, 0, 0, 5, 0, 0, 0, 0, 0, 0, 0, 0, 0, 5, 0, 0, 0, 0, 0, 0, 0, 0, 0, 0, 0, 7,], // 4
+          [7, 0, 0, 0, 0, 0, 0, 0, 0, 0, 0, 5, 0, 0, 0, 0, 0, 0, 0, 0, 0, 5, 0, 0, 0, 0, 0, 0, 0, 0, 0, 0, 0, 7,], // 5
+          [7, 0, 0, 0, 0, 0, 0, 0, 0, 0, 0, 1, 0, 0, 0, 0, 0, 0, 0, 0, 0, 1, 0, 0, 0, 0, 0, 0, 0, 0, 0, 0, 0, 7,], // 6
+          [7, 0, 0, 0, 0, 0, 0, 0, 0, 0, 0, 1, 0, 0, 0, 0, 0, 0, 0, 0, 0, 1, 0, 0, 0, 0, 0, 0, 0, 0, 0, 0, 0, 7,], // 7
+          [1, 0, 0, 0, 0, 0, 0, 0, 0, 0, 0, 1, 10, 0, 0, 0, 0, 0, 0, 0, 10, 1, 0, 0, 0, 0, 0, 0, 0, 0, 0, 0, 0, 1,], // 8
+          [1, 1, 1, 1, 1, 1, 1, 1, 1, 1, 1, 1, 0, 0, 0, 0, 0, 0, 0, 0, 0, 1, 1, 1, 1, 1, 1, 1, 1, 1, 1, 1, 1, 1,],
+          [1, 0, 0, 0, 0, 0, 0, 0, 0, 0, 0, 0, 0, 0, 0, 0, 0, 0, 0, 0, 0, 1, 0, 0, 0, 0, 0, 0, 0, 0, 0, 0, 0, 1,], // 1
+          [1, 0, 0, 0, 0, 0, 0, 0, 0, 0, 0, 0, 0, 0, 0, 0, 0, 0, 0, 0, 10, 1, 0, 0, 0, 0, 0, 0, 0, 0, 0, 0, 0, 7,], // 2
+          [1, 0, 0, 0, 0, 0, 0, 0, 0, 0, 0, 0, 0, 0, 0, 0, 0, 0, 0, 0, 0, 1, 0, 0, 0, 0, 0, 0, 0, 0, 0, 0, 0, 7,], // 3
+          [1, 0, 0, 0, 0, 0, 0, 0, 0, 0, 0, 0, 0, 0, 0, 0, 0, 0, 0, 0, 0, 1, 0, 0, 0, 0, 0, 0, 0, 0, 0, 0, 0, 7,], // 4
+          [1, 0, 0, 0, 0, 0, 0, 0, 0, 0, 0, 0, 0, 0, 0, 0, 0, 0, 0, 0, 10, 1, 0, 0, 0, 0, 0, 0, 0, 0, 0, 0, 0, 7,], // 3
+          [1, 0, 0, 0, 0, 0, 0, 0, 0, 0, 0, 0, 0, 0, 0, 0, 0, 0, 0, 0, 0, 1, 0, 0, 0, 0, 0, 0, 0, 0, 0, 0, 0, 7,], // 4
+          [1, 0, 0, 0, 0, 6, 0, 0, 0, 0, 0, 0, 0, 0, 0, 0, 0, 0, 0, 0, 0, 1, 0, 0, 0, 0, 0, 0, 0, 0, 0, 0, 0, 7,], // 5
+          [1, 0, 0, 0, 0, 0, 0, 0, 0, 0, 0, 0, 0, 0, 0, 0, 0, 0, 0, 0, 0, 5, 0, 0, 0, 0, 0, 0, 0, 0, 0, 0, 0, 7,], // 6
+          [4, 0, 0, 0, 0, 0, 0, 0, 0, 0, 0, 0, 0, 0, 0, 0, 0, 0, 0, 0, 0, 5, 0, 0, 0, 0, 0, 0, 0, 0, 0, 0, 0, 7,], // 5
+          [4, 0, 0, 0, 0, 0, 0, 0, 0, 0, 0, 0, 0, 0, 0, 0, 0, 0, 0, 0, 0, 1, 0, 0, 0, 0, 0, 0, 0, 0, 0, 0, 0, 7,], // 6
+          [4, 0, 0, 0, 0, 0, 0, 0, 0, 0, 0, 0, 0, 0, 0, 0, 0, 0, 0, 0, 0, 1, 0, 0, 0, 0, 0, 0, 0, 0, 0, 0, 0, 7,], // 7
+          [4, 0, 0, 0, 0, 0, 0, 0, 0, 0, 0, 0, 0, 0, 0, 0, 0, 0, 0, 0, 10, 1, 0, 0, 0, 0, 0, 0, 0, 0, 0, 0, 0, 1,], // 8
+          [4, 0, 0, 0, 0, 0, 0, 0, 0, 0, 0, 0, 0, 0, 0, 0, 0, 0, 0, 0, 0, 1, 1, 1, 1, 1, 1, 1, 1, 1, 1, 1, 1, 1,],
+          [4, 0, 0, 0, 0, 0, 0, 0, 0, 0, 0, 0, 0, 0, 0, 0, 0, 0, 0, 0, 0, 1, 0, 0, 0, 0, 0, 0, 0, 0, 0, 0, 0, 1,], // 1
+          [4, 0, 0, 0, 0, 0, 0, 0, 0, 0, 0, 0, 0, 0, 0, 0, 0, 0, 0, 0, 10, 1, 0, 0, 0, 0, 0, 0, 0, 0, 0, 0, 0, 7,], // 2
+          [4, 0, 0, 0, 0, 0, 0, 0, 0, 0, 0, 0, 0, 0, 0, 0, 0, 0, 0, 0, 0, 1, 0, 0, 0, 0, 0, 0, 0, 0, 0, 0, 0, 7,], // 3
+          [4, 0, 0, 0, 0, 0, 0, 0, 0, 0, 0, 0, 0, 0, 0, 0, 0, 0, 0, 0, 0, 1, 0, 0, 0, 0, 0, 0, 0, 0, 0, 0, 0, 7,], // 4
+          [4, 0, 0, 0, 0, 0, 0, 0, 0, 0, 0, 0, 0, 0, 0, 0, 0, 0, 0, 0, 10, 1, 0, 0, 0, 0, 0, 0, 0, 0, 0, 0, 0, 7,], // 3
+          [4, 0, 0, 0, 0, 0, 0, 9, 0, 0, 0, 9, 0, 0, 0, 0, 0, 0, 0, 0, 0, 1, 0, 0, 0, 0, 0, 0, 0, 0, 0, 0, 0, 7,], // 4
+          [4, 0, 0, 0, 0, 0, 0, 0, 0, 9, 0, 0, 0, 0, 0, 0, 0, 0, 0, 0, 0, 1, 0, 0, 0, 0, 0, 0, 0, 0, 0, 0, 0, 7,], // 5
+          [4, 0, 0, 0, 0, 0, 0, 0, 0, 0, 0, 0, 0, 0, 0, 0, 0, 0, 0, 0, 0, 5, 0, 0, 0, 0, 0, 0, 0, 0, 0, 0, 0, 7,], // 6
+          [1, 0, 0, 0, 0, 0, 0, 0, 0, 0, 0, 0, 0, 0, 0, 0, 0, 0, 0, 0, 0, 5, 0, 0, 0, 0, 0, 0, 0, 0, 0, 0, 0, 7,], // 5
+          [1, 0, 0, 0, 0, 0, 0, 0, 0, 0, 0, 0, 0, 0, 0, 0, 0, 0, 0, 0, 0, 1, 0, 0, 0, 0, 0, 0, 0, 0, 0, 0, 0, 7,], // 6
+          [1, 0, 0, 0, 0, 0, 0, 0, 0, 0, 0, 0, 0, 0, 0, 0, 0, 0, 0, 0, 0, 1, 0, 0, 0, 0, 0, 0, 0, 0, 0, 0, 0, 7,], // 7
+          [1, 0, 0, 0, 0, 0, 0, 0, 0, 0, 0, 0, 0, 0, 0, 0, 0, 0, 0, 0, 10, 1, 0, 0, 0, 0, 0, 0, 0, 0, 0, 0, 0, 1,], // 8
+          [1, 1, 1, 1, 1, 1, 1, 1, 1, 1, 1, 1, 0, 0, 0, 0, 0, 0, 0, 0, 0, 1, 1, 1, 1, 1, 1, 1, 1, 1, 1, 1, 1, 1,],
+          [1, 0, 0, 0, 0, 0, 0, 0, 0, 0, 0, 1, 0, 0, 0, 0, 0, 0, 0, 0, 0, 1, 0, 0, 0, 0, 0, 0, 0, 0, 0, 0, 0, 1,], // 1
+          [7, 0, 0, 0, 0, 0, 0, 0, 0, 0, 0, 1, 10, 0, 0, 0, 0, 0, 0, 0, 10, 1, 0, 0, 0, 0, 0, 0, 0, 0, 0, 0, 0, 7,], // 2
+          [7, 0, 0, 0, 0, 0, 0, 0, 0, 0, 0, 1, 0, 0, 0, 0, 0, 0, 0, 0, 0, 1, 0, 0, 0, 0, 0, 0, 0, 0, 0, 0, 0, 7,], // 3
+          [7, 0, 0, 0, 0, 0, 0, 0, 0, 0, 0, 1, 0, 0, 0, 0, 0, 0, 0, 0, 0, 1, 0, 0, 0, 0, 0, 0, 0, 0, 0, 0, 0, 7,], // 4
+          [7, 0, 0, 0, 0, 0, 0, 0, 0, 0, 0, 1, 10, 0, 0, 0, 10, 0, 0, 0, 10, 1, 0, 0, 0, 0, 0, 0, 0, 0, 0, 0, 0, 7,], // 5
+          [7, 0, 0, 0, 0, 0, 0, 0, 0, 0, 0, 1, 0, 0, 0, 0, 0, 0, 0, 0, 0, 1, 0, 0, 0, 0, 0, 0, 0, 0, 0, 0, 0, 7,], // 6
+          [7, 0, 0, 0, 0, 0, 0, 0, 0, 0, 0, 1, 0, 0, 0, 0, 0, 0, 0, 0, 0, 1, 0, 0, 0, 0, 0, 0, 0, 0, 0, 0, 0, 7,], // 3
+          [7, 0, 0, 0, 0, 0, 0, 0, 0, 0, 0, 5, 0, 0, 0, 0, 0, 0, 0, 0, 0, 5, 0, 0, 0, 0, 0, 0, 0, 0, 0, 0, 0, 7,], // 4
+          [7, 0, 0, 0, 0, 0, 0, 0, 0, 0, 0, 5, 0, 0, 0, 0, 0, 0, 0, 0, 0, 5, 0, 0, 0, 0, 0, 0, 0, 0, 0, 0, 0, 7,], // 5
+          [7, 0, 0, 0, 0, 0, 0, 0, 0, 0, 0, 1, 0, 0, 0, 0, 0, 0, 0, 0, 0, 1, 0, 0, 0, 0, 0, 0, 0, 0, 0, 0, 0, 7,], // 6
+          [7, 0, 0, 0, 0, 0, 0, 0, 0, 0, 0, 1, 0, 0, 0, 0, 0, 0, 0, 0, 0, 1, 0, 0, 0, 0, 0, 0, 0, 0, 0, 0, 0, 7,], // 7
+          [1, 0, 0, 0, 0, 0, 0, 0, 0, 0, 0, 1, 10, 0, 0, 0, 0, 0, 0, 0, 10, 1, 0, 0, 0, 0, 0, 0, 0, 0, 0, 0, 0, 1,], // 8
+          [1, 1, 1, 1, 1, 1, 1, 1, 1, 1, 1, 1, 0, 0, 0, 0, 0, 0, 0, 0, 0, 1, 1, 1, 1, 1, 1, 1, 1, 1, 1, 1, 1, 1,],
+          [1, 0, 0, 0, 0, 0, 0, 0, 0, 0, 0, 1, 0, 0, 0, 0, 0, 0, 0, 0, 0, 1, 0, 0, 0, 0, 0, 0, 0, 0, 0, 0, 0, 1,], // 1
+          [7, 0, 0, 0, 0, 0, 0, 0, 0, 0, 0, 1, 10, 0, 0, 0, 10, 0, 0, 0, 10, 1, 0, 0, 0, 0, 0, 0, 0, 0, 0, 0, 0, 7,], // 2
+          [7, 0, 0, 0, 0, 0, 0, 0, 0, 0, 0, 1, 0, 0, 0, 0, 0, 0, 0, 0, 0, 1, 0, 0, 0, 0, 0, 0, 0, 0, 0, 0, 0, 7,], // 3
+          [7, 0, 0, 0, 0, 0, 0, 0, 0, 0, 0, 1, 0, 0, 0, 10, 0, 0, 0, 0, 0, 1, 0, 0, 0, 0, 0, 0, 0, 0, 0, 0, 0, 7,], // 4
+          [7, 0, 0, 0, 0, 0, 0, 0, 0, 0, 0, 1, 10, 0, 0, 0, 0, 0, 0, 0, 10, 1, 0, 0, 0, 0, 0, 0, 0, 0, 0, 0, 0, 7,], // 5
+          [7, 0, 0, 0, 0, 0, 0, 0, 0, 0, 0, 1, 0, 0, 0, 0, 0, 0, 0, 0, 0, 1, 0, 0, 0, 0, 0, 0, 0, 0, 0, 0, 0, 7,], // 6
+          [7, 0, 0, 0, 0, 0, 0, 0, 0, 0, 0, 1, 0, 0, 0, 0, 0, 0, 0, 0, 0, 1, 0, 0, 0, 0, 0, 0, 0, 0, 0, 0, 0, 7,], // 3
+          [7, 0, 0, 0, 0, 0, 0, 0, 0, 0, 0, 5, 0, 0, 0, 0, 0, 0, 0, 0, 0, 5, 0, 0, 0, 0, 0, 0, 0, 0, 0, 0, 0, 7,], // 4
+          [7, 0, 0, 0, 0, 0, 0, 0, 0, 0, 0, 5, 0, 0, 0, 0, 0, 10, 0, 0, 0, 5, 0, 0, 0, 0, 0, 0, 0, 0, 0, 0, 0, 7,], // 5
+          [7, 0, 0, 0, 0, 0, 0, 0, 0, 0, 0, 1, 0, 0, 0, 0, 0, 0, 0, 0, 0, 1, 0, 0, 0, 0, 0, 0, 0, 0, 0, 0, 0, 7,], // 6
+          [7, 0, 0, 0, 0, 0, 0, 0, 0, 0, 0, 1, 0, 0, 0, 0, 0, 0, 0, 0, 0, 1, 0, 0, 0, 0, 0, 0, 0, 0, 0, 0, 0, 7,], // 7
+          [1, 0, 0, 0, 0, 0, 0, 0, 0, 0, 0, 1, 10, 0, 0, 10, 0, 0, 0, 0, 10, 1, 0, 0, 0, 0, 0, 0, 0, 0, 0, 0, 0, 1,], // 8
+          [1, 1, 1, 1, 1, 1, 1, 1, 1, 1, 1, 1, 0, 0, 0, 0, 0, 0, 0, 0, 0, 1, 1, 1, 1, 1, 1, 1, 1, 1, 1, 1, 1, 1,],
+          [1, 0, 0, 0, 0, 0, 0, 0, 0, 0, 0, 1, 0, 0, 0, 0, 0, 0, 0, 0, 0, 1, 0, 0, 0, 0, 0, 0, 0, 0, 0, 0, 0, 1,], // 1
+          [7, 0, 0, 0, 0, 0, 0, 0, 0, 0, 0, 1, 10, 0, 0, 0, 0, 0, 0, 0, 10, 1, 0, 0, 0, 0, 0, 0, 0, 0, 0, 0, 0, 7,], // 2
+          [7, 0, 0, 0, 0, 0, 0, 0, 0, 0, 0, 1, 0, 0, 0, 0, 0, 0, 0, 0, 0, 1, 0, 0, 0, 0, 0, 0, 0, 0, 0, 0, 0, 7,], // 3
+          [7, 0, 0, 0, 0, 0, 0, 0, 0, 0, 0, 1, 0, 0, 0, 0, 0, 0, 0, 0, 0, 1, 0, 0, 0, 0, 0, 0, 0, 0, 0, 0, 0, 7,], // 4
+          [7, 0, 0, 0, 0, 0, 0, 0, 0, 0, 0, 1, 10, 0, 0, 10, 0, 0, 0, 0, 10, 1, 0, 0, 0, 0, 0, 0, 0, 0, 0, 0, 0, 7,], // 5
+          [7, 0, 0, 0, 0, 0, 0, 0, 0, 0, 0, 1, 0, 0, 0, 0, 0, 0, 0, 0, 0, 1, 0, 0, 0, 0, 0, 0, 0, 0, 0, 0, 0, 7,], // 6
+          [7, 0, 0, 0, 0, 0, 0, 0, 0, 0, 0, 1, 0, 0, 0, 0, 0, 0, 0, 0, 0, 1, 0, 0, 0, 0, 0, 0, 0, 0, 0, 0, 0, 7,], // 3
+          [7, 0, 0, 0, 0, 0, 0, 0, 0, 0, 0, 5, 0, 0, 10, 0, 10, 0, 0, 0, 0, 5, 0, 0, 0, 0, 0, 0, 0, 0, 0, 0, 0, 7,], // 4
+          [7, 0, 0, 0, 0, 0, 0, 0, 0, 0, 0, 5, 0, 0, 0, 0, 0, 0, 0, 0, 0, 5, 0, 0, 0, 0, 0, 0, 0, 0, 0, 0, 0, 7,], // 5
+          [7, 0, 0, 0, 0, 0, 0, 0, 0, 0, 0, 1, 0, 0, 0, 0, 0, 0, 0, 0, 0, 1, 0, 0, 0, 0, 0, 0, 0, 0, 0, 0, 0, 7,], // 6
+          [7, 0, 0, 0, 0, 0, 0, 0, 0, 0, 0, 1, 0, 0, 0, 0, 0, 0, 0, 0, 0, 1, 0, 0, 0, 0, 0, 0, 0, 0, 0, 0, 0, 7,], // 7
+          [1, 0, 0, 0, 0, 0, 0, 0, 0, 0, 0, 1, 10, 0, 0, 0, 0, 0, 0, 0, 10, 1, 0, 0, 0, 0, 0, 0, 0, 0, 0, 0, 0, 1,], // 8
+          [1, 1, 1, 1, 1, 1, 1, 1, 1, 1, 1, 1, 0, 0, 0, 0, 0, 0, 0, 0, 0, 1, 1, 1, 1, 1, 1, 1, 1, 1, 1, 1, 1, 1,],
+          [1, 0, 0, 0, 0, 0, 0, 0, 0, 0, 0, 1, 0, 0, 0, 0, 0, 0, 0, 0, 0, 1, 0, 0, 0, 0, 0, 0, 0, 0, 0, 0, 0, 1,], // 1
+          [7, 0, 0, 0, 0, 0, 0, 0, 0, 0, 0, 1, 10, 0, 0, 0, 0, 0, 0, 0, 10, 1, 0, 0, 0, 0, 0, 0, 0, 0, 0, 0, 0, 7,], // 2
+          [7, 0, 0, 0, 0, 0, 0, 0, 0, 0, 0, 1, 0, 0, 0, 0, 0, 0, 0, 0, 0, 1, 0, 0, 0, 0, 0, 0, 0, 0, 0, 0, 0, 7,], // 3
+          [7, 0, 0, 0, 0, 0, 0, 0, 0, 0, 0, 1, 0, 0, 0, 10, 0, 10, 0, 0, 0, 1, 0, 0, 0, 0, 0, 0, 0, 0, 0, 0, 0, 7,], // 4
+          [7, 0, 0, 0, 0, 0, 0, 0, 0, 0, 0, 1, 10, 0, 0, 0, 0, 0, 0, 0, 10, 1, 0, 0, 0, 0, 0, 0, 0, 0, 0, 0, 0, 7,], // 5
+          [7, 0, 0, 0, 0, 0, 0, 0, 0, 0, 0, 1, 0, 0, 0, 0, 0, 0, 0, 0, 0, 1, 0, 0, 0, 0, 0, 0, 0, 0, 0, 0, 0, 7,], // 6
+          [7, 0, 0, 0, 0, 0, 0, 0, 0, 0, 0, 1, 0, 0, 0, 0, 10, 0, 0, 0, 0, 1, 0, 0, 0, 0, 0, 0, 0, 0, 0, 0, 0, 7,], // 3
+          [7, 0, 0, 0, 0, 0, 0, 0, 0, 0, 0, 5, 0, 0, 0, 0, 0, 0, 0, 0, 0, 5, 0, 0, 0, 0, 0, 0, 0, 0, 0, 0, 0, 7,], // 4
+          [7, 0, 0, 0, 0, 0, 0, 0, 0, 0, 0, 5, 0, 0, 0, 0, 0, 0, 0, 0, 0, 5, 0, 0, 0, 0, 0, 0, 0, 0, 0, 0, 0, 7,], // 5
+          [7, 0, 0, 0, 0, 0, 0, 0, 0, 0, 0, 1, 0, 0, 0, 0, 0, 0, 0, 0, 0, 1, 0, 0, 0, 0, 0, 0, 0, 0, 0, 0, 0, 7,], // 6
+          [7, 0, 0, 0, 0, 0, 0, 0, 0, 0, 0, 1, 0, 0, 0, 0, 0, 0, 0, 0, 0, 1, 0, 0, 0, 0, 0, 0, 0, 0, 0, 0, 0, 7,], // 7
+          [1, 0, 0, 0, 0, 0, 0, 0, 0, 0, 0, 1, 10, 0, 0, 0, 0, 0, 0, 0, 10, 1, 0, 0, 0, 0, 0, 0, 0, 0, 0, 0, 0, 1,], // 8
+          [1, 1, 1, 1, 1, 1, 1, 1, 1, 1, 1, 1, 0, 0, 0, 0, 0, 0, 0, 0, 0, 1, 1, 1, 1, 1, 1, 1, 1, 1, 1, 1, 1, 1,],
+          [1, 0, 0, 0, 0, 0, 0, 0, 0, 0, 0, 1, 0, 0, 0, 0, 0, 0, 0, 0, 0, 1, 0, 0, 0, 0, 0, 0, 0, 0, 0, 0, 0, 1,], // 1
+          [7, 0, 0, 0, 0, 0, 0, 0, 0, 0, 0, 1, 10, 0, 0, 0, 0, 0, 0, 0, 10, 1, 0, 0, 0, 0, 0, 0, 0, 0, 0, 0, 0, 7,], // 2
+          [7, 0, 0, 0, 0, 0, 0, 0, 0, 0, 0, 1, 0, 0, 10, 0, 0, 0, 0, 0, 0, 1, 0, 0, 0, 0, 0, 0, 0, 0, 0, 0, 0, 7,], // 3
+          [7, 0, 0, 0, 0, 0, 0, 0, 0, 0, 0, 1, 0, 0, 0, 0, 0, 0, 0, 0, 0, 1, 0, 0, 0, 0, 0, 0, 0, 0, 0, 0, 0, 7,], // 4
+          [7, 0, 0, 0, 0, 0, 0, 0, 0, 0, 0, 1, 10, 0, 0, 0, 0, 0, 0, 0, 10, 1, 0, 0, 0, 0, 0, 0, 0, 0, 0, 0, 0, 7,], // 5
+          [7, 0, 0, 0, 0, 0, 0, 0, 0, 0, 0, 1, 0, 0, 0, 10, 0, 0, 0, 0, 0, 1, 0, 0, 0, 0, 0, 0, 0, 0, 0, 0, 0, 7,], // 6
+          [7, 0, 0, 0, 0, 0, 0, 0, 0, 0, 0, 1, 0, 0, 0, 0, 0, 0, 0, 0, 0, 1, 0, 0, 0, 0, 0, 0, 0, 0, 0, 0, 0, 7,], // 3
+          [7, 0, 0, 0, 0, 0, 0, 0, 0, 0, 0, 5, 0, 0, 0, 0, 0, 0, 0, 0, 0, 5, 0, 0, 0, 0, 0, 0, 0, 0, 0, 0, 0, 7,], // 4
+          [7, 0, 0, 0, 0, 0, 0, 0, 0, 0, 0, 5, 0, 0, 0, 0, 0, 0, 0, 0, 0, 5, 0, 0, 0, 0, 0, 0, 0, 0, 0, 0, 0, 7,], // 5
+          [7, 0, 0, 0, 0, 0, 0, 0, 0, 0, 0, 1, 0, 0, 0, 0, 0, 0, 0, 0, 0, 1, 0, 0, 0, 0, 0, 0, 0, 0, 0, 0, 0, 7,], // 6
+          [7, 0, 0, 0, 0, 0, 0, 0, 0, 0, 0, 1, 0, 0, 0, 0, 0, 0, 0, 0, 0, 1, 0, 0, 0, 0, 0, 0, 0, 0, 0, 0, 0, 7,], // 7
+          [1, 0, 0, 0, 0, 0, 0, 0, 0, 0, 0, 1, 10, 0, 0, 0, 0, 0, 0, 0, 10, 1, 0, 0, 0, 0, 0, 0, 0, 0, 0, 0, 0, 1,], // 8
+          [1, 1, 1, 1, 1, 1, 1, 1, 1, 1, 1, 1, 0, 0, 0, 0, 0, 0, 0, 0, 0, 1, 1, 1, 1, 1, 1, 1, 1, 1, 1, 1, 1, 1,],
+          [1, 0, 0, 0, 0, 0, 0, 0, 0, 0, 0, 1, 0, 0, 0, 0, 0, 0, 0, 0, 0, 1, 0, 0, 0, 0, 0, 0, 0, 0, 0, 0, 0, 1,], // 1
+          [7, 0, 0, 0, 0, 0, 0, 0, 0, 0, 0, 1, 10, 0, 0, 0, 0, 0, 0, 0, 10, 1, 0, 0, 0, 0, 0, 0, 0, 0, 0, 0, 0, 7,], // 2
+          [7, 0, 0, 0, 0, 0, 0, 0, 0, 0, 0, 1, 0, 0, 0, 0, 0, 0, 0, 0, 0, 1, 0, 0, 0, 0, 0, 0, 0, 0, 0, 0, 0, 7,], // 3
+          [7, 0, 0, 0, 0, 0, 0, 0, 0, 0, 0, 1, 0, 0, 0, 0, 0, 0, 0, 0, 0, 1, 0, 0, 0, 0, 0, 0, 0, 0, 0, 0, 0, 7,], // 4
+          [7, 0, 0, 0, 0, 0, 0, 0, 0, 0, 0, 1, 10, 0, 0, 0, 0, 0, 0, 0, 10, 1, 0, 0, 0, 0, 0, 0, 0, 0, 0, 0, 0, 7,], // 5
+          [7, 0, 0, 0, 0, 0, 0, 0, 0, 0, 0, 1, 0, 0, 0, 0, 0, 0, 0, 0, 0, 1, 0, 0, 0, 0, 0, 0, 0, 0, 0, 0, 0, 7,], // 6
+          [7, 0, 0, 0, 0, 0, 0, 0, 0, 0, 0, 1, 0, 0, 0, 0, 0, 0, 0, 0, 0, 1, 0, 0, 0, 0, 0, 0, 0, 0, 0, 0, 0, 7,], // 3
+          [7, 0, 0, 0, 0, 0, 0, 0, 0, 0, 0, 5, 0, 0, 0, 0, 0, 0, 0, 0, 0, 5, 0, 0, 0, 0, 0, 0, 0, 0, 0, 0, 0, 7,], // 4
+          [7, 0, 0, 0, 0, 0, 0, 0, 0, 0, 0, 5, 0, 0, 0, 0, 0, 0, 0, 0, 0, 5, 0, 0, 0, 0, 0, 0, 0, 0, 0, 0, 0, 7,], // 5
+          [7, 0, 0, 0, 0, 0, 0, 0, 0, 0, 0, 1, 0, 0, 0, 0, 0, 0, 0, 0, 0, 1, 0, 0, 0, 0, 0, 0, 0, 0, 0, 0, 0, 7,], // 6
+          [7, 0, 0, 0, 0, 0, 0, 0, 0, 0, 0, 1, 10, 0, 0, 0, 0, 0, 0, 0, 10, 1, 0, 0, 0, 0, 0, 0, 0, 0, 0, 0, 0, 7,], // 7
+          [1, 0, 0, 0, 0, 0, 0, 0, 0, 0, 0, 1, 0, 0, 0, 0, 0, 0, 0, 0, 0, 1, 0, 0, 0, 0, 0, 0, 0, 0, 0, 0, 0, 1,], // 8
+          [1, 1, 1, 1, 1, 1, 1, 1, 1, 1, 1, 1, 1, 1, 8, 8, 8, 8, 8, 1, 1, 1, 1, 1, 1, 1, 1, 1, 1, 1, 1, 1, 1, 1,],
           ];

diff --git a/scripts/humanScript.js b/scripts/humanScript.js
@@ -261,13 +261,15 @@ $(document).ready(function() {
       new THREE.MeshLambertMaterial({map: THREE.ImageUtils.loadTexture('./assets/yellow_wall.png')}),
       new THREE.MeshLambertMaterial({map: THREE.ImageUtils.loadTexture('./assets/fri.png')}),
       new THREE.MeshLambertMaterial({map: THREE.ImageUtils.loadTexture('./assets/vrata-nasproti.png')}),
-      new THREE.MeshBasicMaterial( { color: 0x181818, transparent: true, blending: THREE.AdditiveBlending } )
+      new THREE.MeshBasicMaterial( { color: 0x181818, transparent: true, blending: THREE.AdditiveBlending }),
+      new THREE.MeshLambertMaterial({map: THREE.ImageUtils.loadTexture('./assets/les.png')})
     ];
     for (var i = 0; i < mapW; i++) {
       for (var j = 0, m = map[i].length; j < m; j++) {
         console.log(map[i][j]);
         if (map[i][j]) {
           if(map[i][j]==6) {
+
             var geometry = new THREE.CylinderGeometry( UNITSIZE*2, UNITSIZE*2, WALLHEIGHT, 32 );
             var mat = new THREE.MeshLambertMaterial({map: THREE.ImageUtils.loadTexture('./assets/red_wall_2.png')});
             var cylinder = new THREE.Mesh( geometry, mat );
@@ -275,7 +277,9 @@ $(document).ready(function() {
             cylinder.position.y = WALLHEIGHT/2;
             cylinder.position.z = (j - mapH/2) * UNITSIZE;
             scene.add(cylinder);
+
           } else if(map[i][j] == 7) {
+
             var cube = new THREE.BoxGeometry(UNITSIZE, WALLHEIGHT/3, UNITSIZE);
             var wall = new THREE.Mesh(cube, materials[0]);
             wall.position.x = (i - mapW/2) * UNITSIZE;
@@ -289,6 +293,7 @@ $(document).ready(function() {
             win.position.y = WALLHEIGHT/6 + UNITSIZE;
             win.position.z = (j - mapH/2) * UNITSIZE;
             scene.add(win);
+
           } else if(map[i][j] == 5) {
 
             cube = new THREE.BoxGeometry(UNITSIZE, WALLHEIGHT, 10);
@@ -297,6 +302,7 @@ $(document).ready(function() {
             win.position.y = WALLHEIGHT/2;
             win.position.z = (j - mapH/2) * UNITSIZE;
             scene.add(win);
+
           }else if(map[i][j] == 8) {
 
             cube = new THREE.BoxGeometry(10, WALLHEIGHT, UNITSIZE);
@@ -305,6 +311,7 @@ $(document).ready(function() {
             win.position.y = WALLHEIGHT/2;
             win.position.z = (j - mapH/2) * UNITSIZE;
             scene.add(win);
+
           } else if(map[i][j]==9){
 
             var geometry = new THREE.CylinderGeometry( UNITSIZE*2, UNITSIZE*2, WALLHEIGHT, 32 );
@@ -315,14 +322,25 @@ $(document).ready(function() {
             cylinder.position.z = (j - mapH/2) * UNITSIZE;
             scene.add(cylinder);
 
-          
+          }else if(map[i][j]==10){
+
+            var klop = new THREE.BoxGeometry(UNITSIZE*3, WALLHEIGHT/4, UNITSIZE/2);
+            var mat = new THREE.MeshLambertMaterial({map: THREE.ImageUtils.loadTexture('./assets/les.png')});
+            var klopca = new THREE.Mesh( klop, mat );
+            klopca.position.x = (i - mapW/2) * UNITSIZE;
+            klopca.position.y = WALLHEIGHT/8;
+            klopca.position.z = (j - mapH/2) * UNITSIZE;
+            scene.add(klopca);
+
           }else {
+
             var cube = new THREE.BoxGeometry(UNITSIZE, WALLHEIGHT, UNITSIZE);
             var wall = new THREE.Mesh(cube, materials[map[i][j]-1]);
             wall.position.x = (i - mapW/2) * UNITSIZE;
             wall.position.y = WALLHEIGHT/2;
             wall.position.z = (j - mapH/2) * UNITSIZE;
             scene.add(wall);
+
           }
         }
       }
